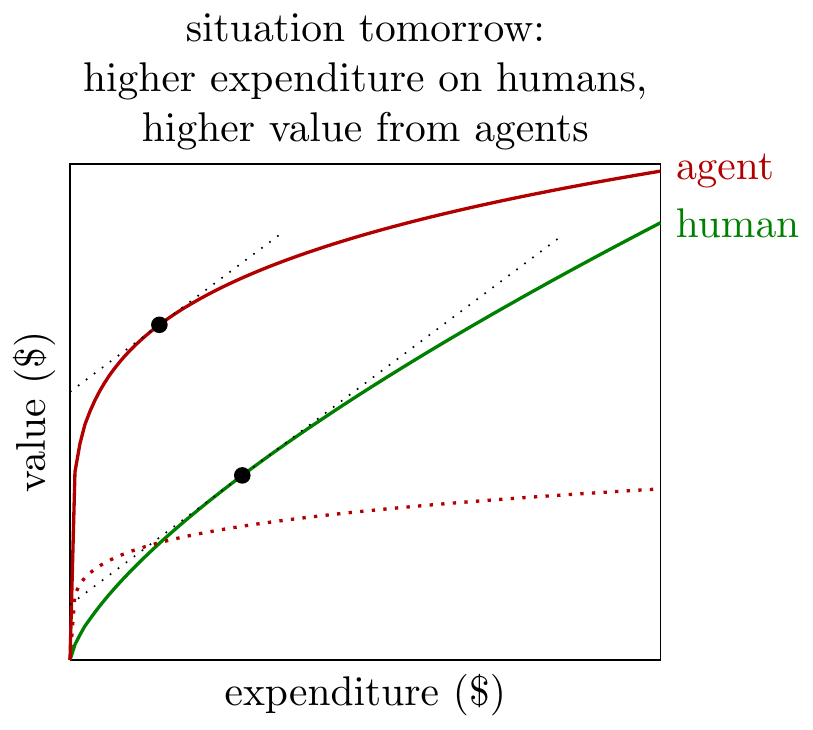
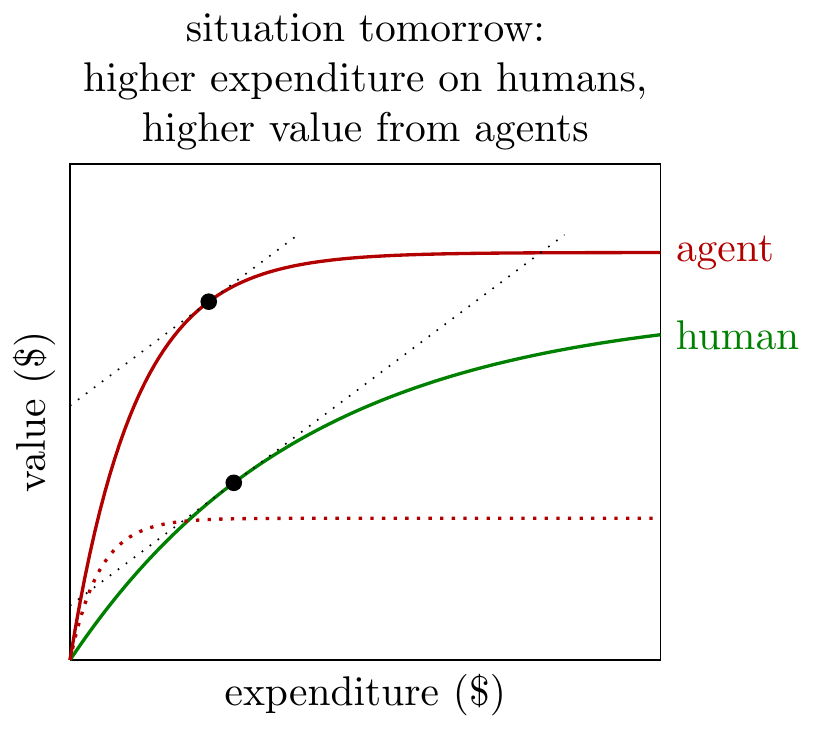
expenditure

diff --git a/docs/posts/2026-04-24-expenditure-on-agents.html b/docs/posts/2026-04-24-expenditure-on-agents.html
@@ -9,7 +9,7 @@
 <meta name="author" content="Tom Cunningham">
 <meta name="description" content="Tom Cunningham blog">
 
-<title>Expenditure on Agents | Tom Cunningham – Tom Cunningham</title>
+<title>How Elastic is Agent Expenditure | Tom Cunningham – Tom Cunningham</title>
 <style>
 code{white-space: pre-wrap;}
 span.smallcaps{font-variant: small-caps;}
@@ -156,7 +156,7 @@ window.Quarto = {
 </script>
 
 <link rel="stylesheet" href="../styles.css">
-<meta name="twitter:title" content="Expenditure on Agents | Tom Cunningham">
+<meta name="twitter:title" content="How Elastic is Agent Expenditure | Tom Cunningham">
 <meta name="twitter:description" content="Tom Cunningham blog">
 <meta name="twitter:image" content="tecunningham.github.io/posts/2026-04-24-expenditure-on-agents_files/figure-html/unnamed-chunk-1-1.png">
 <meta name="twitter:image-height" content="567">
@@ -217,7 +217,7 @@ window.Quarto = {
 <header id="title-block-header" class="quarto-title-block default page-columns page-full">
   <div class="quarto-title-banner page-columns page-full">
     <div class="quarto-title column-body">
-      <h1 class="title">Expenditure on Agents</h1>
+      <h1 class="title">How Elastic is Agent Expenditure</h1>
                       </div>
   </div>
     
@@ -380,12 +380,38 @@ window.Quarto = {
 <li><p><strong>AI would transform the economy but remain a small share of output.</strong> Many analyses of AI have assumed that, if AI has dramatic implications on growth, then holders of scarce inputs (algorithms, compute, energy) will be paid a large share of the output. In fact if the returns to AI and compute are relatively inelastic, then they could have a large impact, but only receive a small share of output. (Note this is entirely independent of the demand for intrinsically human vs AI labor).</p></li>
 </ol>
 </dd>
+<dt>My expectation.</dt>
+<dd>
+The graphs below show stylized returns to expenditure on human and agent labor, with the common “tortoise-hare” pattern: the return to agent labor expenditure is higher at first, but diminishes more quickly. The black dots show the optimal expenditure on each, where the marginal cost and marginal value are equalized.
+</dd>
 </dl>
+<div class="quarto-layout-panel" data-layout-ncol="2">
+<div class="quarto-layout-row">
+<div class="cell quarto-layout-cell" style="flex-basis: 50.0%;justify-content: flex-start;">
+<div class="cell-output-display">
+<div class="quarto-figure quarto-figure-center">
+<figure class="figure">
+<p><img src="2026-04-24-expenditure-on-agents_files/figure-html/unnamed-chunk-5-1.png" class="img-fluid quarto-figure quarto-figure-center figure-img" width="288"></p>
+</figure>
+</div>
+</div>
+</div>
+<div class="cell quarto-layout-cell" style="flex-basis: 50.0%;justify-content: flex-start;">
+<div class="cell-output-display">
+<div class="quarto-figure quarto-figure-center">
+<figure class="figure">
+<p><img src="2026-04-24-expenditure-on-agents_files/figure-html/unnamed-chunk-6-1.png" class="img-fluid quarto-figure quarto-figure-center figure-img" width="288"></p>
+</figure>
+</div>
+</div>
+</div>
+</div>
+</div>
 </section>
 <section id="evidence-on-returns-to-expenditure" class="level1">
 <h1>Evidence on Returns to Expenditure</h1>
 <dl>
-<dt>The ideal experiment.</dt>
+<dt>We don’t have great evidence.</dt>
 <dd>
 <p>Unfortunately we only have fairly sparse direct evidence of AI on output. The following would be the ideal set of experiments.</p>
 <ol type="1">
@@ -710,12 +736,13 @@ Zeira, Joseph. 1998. <span>“Workers, Machines, and Economic Growth.”</span> 
 </div>
 </div></section><section class="quarto-appendix-contents" id="quarto-citation"><h2 class="anchored quarto-appendix-heading">Citation</h2><div><div class="quarto-appendix-secondary-label">BibTeX citation:</div><pre class="sourceCode code-with-copy quarto-appendix-bibtex"><code class="sourceCode bibtex">@online{cunningham,
   author = {Cunningham, Tom},
-  title = {Expenditure on {Agents}},
+  title = {How {Elastic} Is {Agent} {Expenditure}},
   url = {tecunningham.github.io/posts/2026-04-24-expenditure-on-agents.html},
   langid = {en}
 }
 </code><button title="Copy to Clipboard" class="code-copy-button"><i class="bi"></i></button></pre><div class="quarto-appendix-secondary-label">For attribution, please cite this work as:</div><div id="ref-cunningham" class="csl-entry quarto-appendix-citeas" role="listitem">
-Cunningham, Tom. n.d. <span>“Expenditure on Agents.”</span> <a href="https://tecunningham.github.io/posts/2026-04-24-expenditure-on-agents.html">tecunningham.github.io/posts/2026-04-24-expenditure-on-agents.html</a>.
+Cunningham, Tom. n.d. <span>“How Elastic Is Agent Expenditure.”</span>
+<a href="https://tecunningham.github.io/posts/2026-04-24-expenditure-on-agents.html">tecunningham.github.io/posts/2026-04-24-expenditure-on-agents.html</a>.
 </div></div></section></div></main> <!-- /main -->
 <script id="quarto-html-after-body" type="application/javascript">
   window.document.addEventListener("DOMContentLoaded", function (event) {
